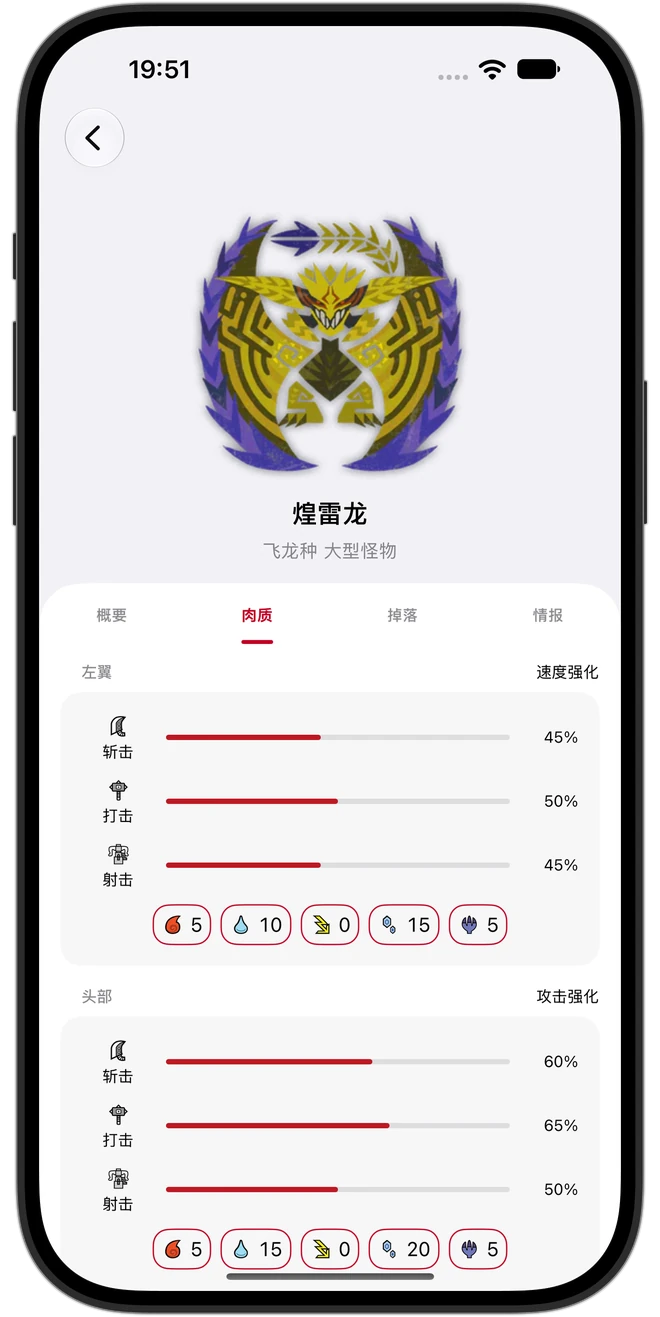
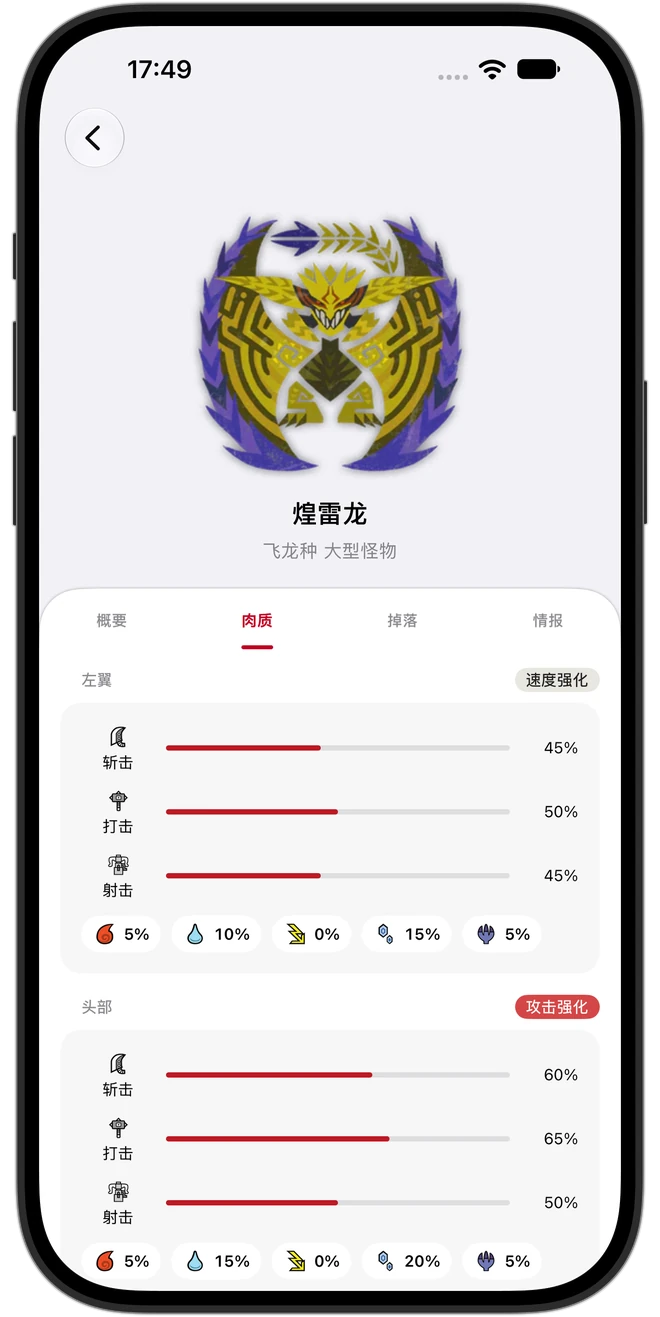
feat(website): refresh China language wording and native screenshots

diff --git a/.vitepress/theme/content.ts b/.vitepress/theme/content.ts
@@ -19,13 +19,13 @@ export const copy: Copy = {
   title: '怪物猎人图鉴与配装',
   intro: '查询怪物弱点、装备性能与素材来源，按目标技能搜索配装。',
   coverage: '支持《荒野》《崛起＋曙光》《世界＋冰原》。',
-  explore: '查看功能', sectionTitle: '功能', featureHeading: '从怪物弱点到配装方案', featureIntro: '查阅游戏资料、比较装备性能、按技能搜索配装。核心功能离线可用，免费无广告。', previousFeature: '上一个功能', nextFeature: '下一个功能',
+  explore: '查看功能', sectionTitle: '功能', featureHeading: '从怪物弱点到配装方案', featureIntro: '查阅游戏资料、比较装备性能、按技能搜索配装。核心功能离线可用，免费无广告。应用支持 14 种语言。', previousFeature: '上一个功能', nextFeature: '下一个功能',
   features: [
     { tab: '图鉴', title: '三款游戏的独立图鉴', body: '按游戏浏览怪物、武器、防具与任务资料，支持名称搜索。各游戏资料独立整理，保留不同作品的机制与数值。', image: 'home', alt: 'iPhone 18 Pro 边框中的荒野首页' },
     { tab: '弱点', title: '怪物弱点与部位肉质', body: '比较属性弱点与各部位肉质，了解攻击属性和部位的选择依据，并查询素材掉落来源。', image: 'hitzones', alt: 'iPhone 18 Pro 边框中的煌雷龙肉质详情' },
     { tab: '装备', title: '装备性能与制作素材', body: '查看攻击力、会心率、斩味、技能与制作素材，并从装备页面直接访问相关素材和技能详情。', image: 'weapon', alt: '希望大剑Ⅰ的属性与斩味' },
     { tab: '配装', title: '按目标技能搜索配装', body: '设定技能与等级，固定指定装备，并按已持有的装饰品数量筛选组合。《崛起》还支持自有护石与怪异炼化防具。', image: 'builder', alt: '荒野配装搜索结果与技能筛选' },
-    { tab: '收藏', title: '资料收藏与配装保存', body: '收藏常用的怪物、装备与任务资料，便于再次查阅。配装方案可保存并继续编辑。', image: 'saved', alt: '收藏的怪物、武器、道具与任务' },
+    { tab: '收藏', title: '资料收藏与配装保存', body: '收藏常用的怪物、装备与任务资料，便于再次查阅。配装方案可保存并继续编辑。', image: 'saved', alt: '已收藏的游戏资料' },
   ],
   downloadTitle: '选择下载平台', soon: '尚未上架', openStore: '打开商店', storeDetails: ['iPhone 与 iPad', 'Android 手机与平板', '鸿蒙设备'],
   footer: '由爱好者独立开发的非商业应用，与 CAPCOM 无关联，亦未获其认可或支持。Monster Hunter 的游戏美术与数据归 CAPCOM Co., Ltd. 所有。',

diff --git a/openspec/changes/fourteen-language-website/verification.md b/openspec/changes/fourteen-language-website/verification.md
@@ -1,0 +1,66 @@
+# Verification — 2026-11-14
+
+## Native capture
+
+The owner requested fresh matching screens from the updated app. Built the current
+iOS source at app HEAD `369cd5d55`, including the pre-existing native working-tree
+edits, without editing native app code. The simulator app packages all fourteen
+locales. Installed Debug implementation SHA-256:
[1 lines of base64/hex data omitted]
+
+Used the documented website-owned simulator `MHD_Website_iOS_27_2`, UUID
+`C6A34820-E01A-40D3-8CB9-ED829D92EDD6`, iPhone 18 Pro Max / iOS 27.2. No other
+simulators were controlled. A standalone XCTest runner captured Home, Rey Dau
+hitzones, Hope Blade I, native armor-search results for the existing Weakness
+Exploit level-5 query, and saved canonical references in all fourteen languages.
+
+The final command returned success with all fourteen cases passing on their final
+attempts. Its log counts fifteen executions, including one initial Arabic launch
+failure followed by a successful retry; the failed attempt is not counted as a
+passed capture. Earlier diagnostic probes and a cancelled batch are retained
+separately. The revised capture check verifies UI language, skill identity/level
+and result-screen readiness without assuming Builder game labels exactly match a
+separate translation dictionary.
+
+All 70 PNGs have their own timestamps, UI trees and locale/device records. They
+were fitted to the existing bezel without repainting text or mirroring pixels.
+The 70 output hashes and original PNG hashes were verified. Every image uses the
+same updated binary. Originals are retained privately under the app checkout's
+`.codex/audit-evidence/website-languages-20261114/captures/`.
+
+Original app preferences and application-support data were backed up, then restored
+byte-for-byte after capture. Task helper apps were removed and this task-started
+simulator was returned to Shutdown. Native source and other devices were untouched.
+
+Representative native reviews covered English, Arabic, French, German, Korean and
+Japanese, including the corrected expanded monster header. Six bounded images were
+inspected during capture/web review, including contact sheets and one diagnostic
+blank-window image; this is not an exhaustive native-app visual or linguistic audit.
+App UI/game text is preserved as rendered, including existing translation/fallback
+wording. Native-speaker review is not claimed.
+
+## Website
+
+Global metadata and copy cover fourteen locales; all 70 content routes and the
+shared 404 page build successfully. Each language has its own five native images.
+Arabic gets RTL text and controls while screenshot pixels retain native orientation.
+Localized original store badges are reused where available; documented English
+artwork fallback is used for languages absent from the reference asset set.
+
+The global UX audit passed 430 rendered states and its interaction groups, including
+LTR/RTL carousel selection, actual touch gestures, keyboard navigation, locale
+switching, theme persistence, search and no horizontal overflow. A programmatic
+selection guard fixes rapid Home/End/arrow navigation racing stale observer events.
+Supporting-page checks passed 112 desktop/mobile states and another 56 pages at
+320px. Header checks at 1101/1200/1280/1366/1440px found no overflow across all
+fourteen locales. The build validates all 70 image hashes, sizes, languages and
+fresh capture provenance.
+
+The China website stays Simplified Chinese-only, with app-language wording updated
+to fourteen and the same fresh zh-Hans image set. Its six-page build, 40 UX states
+and eight store states passed; QR assets, registration and regional availability
+remain intact.
+
+Website translations are authored from the existing content and use the existing
+policy's effective date with a separate translation date. They do not add claims
+of complete game-text coverage or professional linguistic certification.

diff --git a/openspec/changes/fourteen-language-website/design.md b/openspec/changes/fourteen-language-website/design.md
@@ -1,0 +1,24 @@
+# Design
+
+Add ko, fr, de, es, es-419, it, ru, pt-BR, pl and ar to the global locale set, alongside
+en, ja, zh-Hans and zh-Hant. Thai is not included. Keep website wording factual about
+selectable app languages and fallback; do not claim complete or professionally
+reviewed game translations. Translate landing, navigation and supporting pages.
+Use Arabic RTL for text and controls without mirroring native screenshot pixels.
+
+Capture Home, monster hitzones, weapon details, armor search/results and saved
+references from the updated iOS app for all fourteen languages. Reuse the documented
+website-owned simulator C6A34820-E01A-40D3-8CB9-ED829D92EDD6 (iPhone 18 Pro Max,
+iOS 27.2), after checking ownership and active controllers. Use a separate capture
+runner and derived-data path, preserve app preferences/saved data, and leave other
+project devices and dirty native source untouched. Record build identity, language,
+entity and raw image hashes. Compose the existing iPhone 18 Pro bezel once per screen.
+
+Use a data-driven locale/capture mapping for routing, metadata, content, store badges
+and validation. Preserve regional Spanish variants and actual RTL app captures.
+Reuse existing original localized store badges where available, with documented
+English badge fallback for unsupported artwork languages. Keep store URLs and QR codes.
+
+Verify every locale route and screenshot topic, responsive LTR/RTL layouts, controls,
+help search, language switching, terms/privacy/support routes and image integrity.
+Publish the global site via a built PR and retain China routing/hosting independence.

diff --git a/ASSETS.md b/ASSETS.md
@@ -92,3 +92,13 @@ The app icon palette was previously recorded in MonsterHunterDex's
 actions and highlights on a white page; dark mode uses a lighter rust for contrast.
 The original three phone screenshots and all feature captures remain unchanged.
 The previous benefit-card icons are no longer rendered; their license notice is retained.
+
+
+## Expanded-app screenshot refresh — 2026-11-14
+
+The China edition keeps Simplified Chinese-only pages and now uses the same five
+fresh zh-Hans native captures as the expanded global website. The updated app
+supports fourteen selectable languages; the site remains zh-Hans. Original PNGs
+and UI records are preserved privately under the app checkout's
+`.codex/audit-evidence/website-languages-20261114/captures/zh-Hans/`.
+The existing iPhone bezel, QR codes, store availability and registration footer remain.

diff --git a/faq/index.md b/faq/index.md
@@ -14,6 +14,9 @@
 
 搜索结果取决于当前游戏资料与所设条件。配装搜索目前不包含伤害计算功能。
 
+## 应用支持哪些语言？
+应用支持 14 种语言：简体中文、繁体中文、英语、日语、韩语、法语、德语、西班牙语（西班牙）、西班牙语（拉丁美洲）、意大利语、俄语、葡萄牙语（巴西）、波兰语和阿拉伯语。缺少翻译的游戏内容可能显示英文；拉丁美洲西班牙语会先使用西班牙地区的译文。
+
 ## 网站支持哪些语言？
 中国版网站仅提供简体中文，功能截图也使用简体中文界面。其他语言的网站内容请访问[国际版网站](https://eurekaffeine.github.io/sapphire-star-codex/)。
 

diff --git a/README.md b/README.md
@@ -97,3 +97,8 @@ bezels. Light-mode surfaces are white; primary rust #B8533A is from the existing
 app-icon palette. Screenshot assets, payment codes and regional routes remain
 owned by each branch. The current UX audit checks this story/carousel behavior,
 not the retired compact tab gallery or fixed four-size landing scale.
+
+
+The app now supports fourteen languages. This China website remains Simplified
+Chinese-only and uses fresh zh-Hans screenshots from the same native capture run
+as the global edition. The global site's expanded language routes are independent.

diff --git a/openspec/specs/website/spec.md b/openspec/specs/website/spec.md
@@ -1,7 +1,7 @@
 # Website behavior
 
-The global edition serves English, Simplified Chinese, Traditional Chinese and
-Japanese under `/sapphire-star-codex/` on GitHub Pages. The China edition serves
+The global edition serves fourteen app languages, including Arabic RTL and
+separate Spain/Latin American Spanish, under `/sapphire-star-codex/` on GitHub Pages. The China edition serves
 only Simplified Chinese at `/`, with an explicit link to the global website.
 
 Both editions retain the real native feature screenshots, responsive five-feature

diff --git a/openspec/changes/fourteen-language-website/tasks.md b/openspec/changes/fourteen-language-website/tasks.md
@@ -1,0 +1,8 @@
+# Tasks
+
+- [x] Confirm the fourteen app locales, existing source captures and owner capture preference.
+- [x] Capture and review five fresh native screens per language with provenance.
+- [x] Add localized global copy/pages and update language-support wording.
+- [x] Wire locale-specific screenshots, store artwork and Arabic RTL behavior.
+- [x] Build and verify routes, assets, layout and interaction across languages.
+- [ ] Merge/publish the global update, update applicable China wording/screens, and verify results.

diff --git a/AGENTS.md b/AGENTS.md
@@ -1,7 +1,7 @@
 # Sapphire Star Codex website
 
 This repository is the canonical editable website source. `main` contains the
-four-language global edition; `china-version` contains the Simplified Chinese
+fourteen-language global edition; `china-version` contains the Simplified Chinese
 China edition. `gh-pages` contains only built global output.
 
 - Never push directly to main. Use a branch and PR, with a successful local build.

diff --git a/openspec/changes/fourteen-language-website/proposal.md b/openspec/changes/fourteen-language-website/proposal.md
@@ -1,0 +1,6 @@
+# Fourteen-language website
+
+Match the app's expanded fourteen-language support with localized global website
+copy and fresh matching native screenshots. The owner explicitly requested fresh
+captures from the updated app. Preserve the approved Pocket Gallery scaffold,
+white/rust theme and three overlapping bezel-framed phones. China stays zh-Hans-only.
